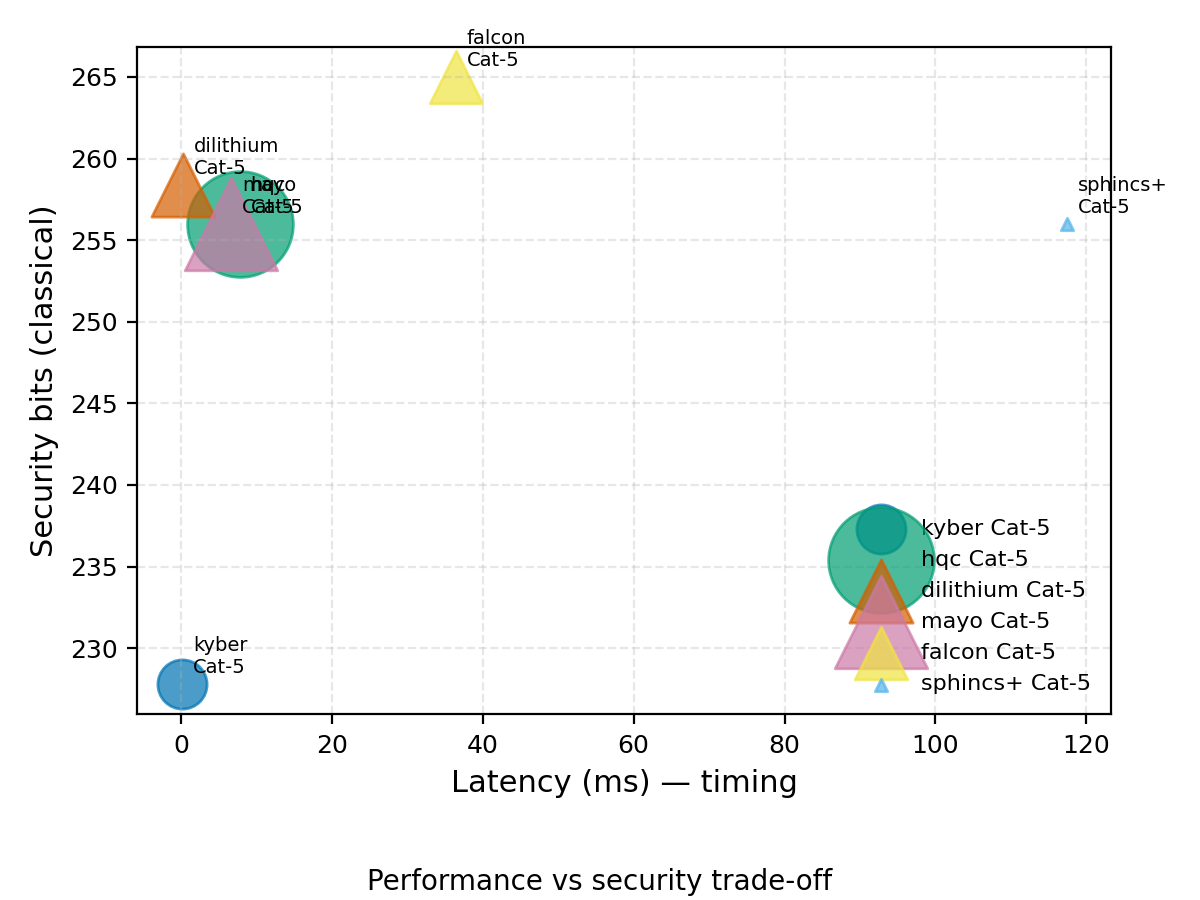
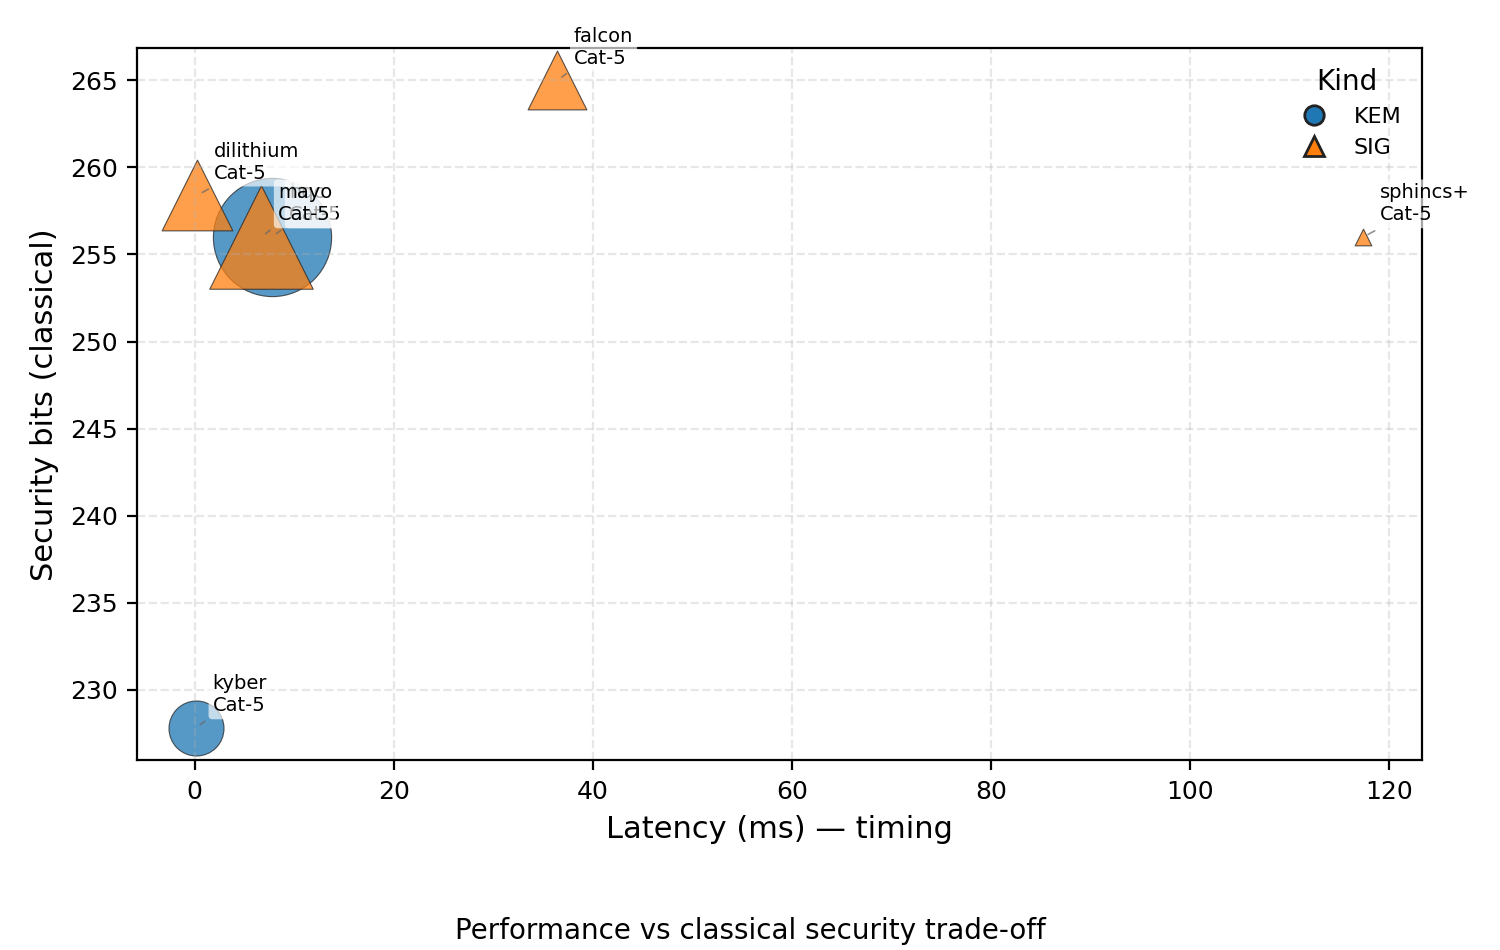
Improved readability of timing vs security trade-off graphs

Changed region(s): [[0.0, 0.0311, 0.9867, 0.9022], [0.3083, 0.9644, 0.7092, 0.9956]]

diff --git a/benchmarks/render_category_floor_graphs.py b/benchmarks/render_category_floor_graphs.py
@@ -1233,6 +1233,75 @@ def plot_shor_runtime(
         _save_with_caption(fig, outfile, caption, captions)
 
 
+def _plot_tradeoff_frontier(
+    points: Sequence[Tuple[float, float, float, str, int, str]],
+    y_label: str,
+    pass_name: str,
+    outfile: pathlib.Path,
+    caption: str,
+    captions: CaptionLog,
+) -> None:
+    if not points:
+        return
+
+    fig, ax = plt.subplots(figsize=(7.5, 4.75))
+    offsets = [(6, 6), (-52, 6), (6, -18), (-52, -18), (18, 18), (-30, 18)]
+    coord_counts: Dict[Tuple[float, float], int] = defaultdict(int)
+    marker_props = {
+        "KEM": {"marker": "o", "facecolor": "#1f77b4"},
+        "SIG": {"marker": "^", "facecolor": "#ff7f0e"},
+    }
+
+    for latency, sec_bits, size, algo, category, kind in sorted(
+        points, key=lambda x: (x[5], x[0])
+    ):
+        props = marker_props.get(kind.upper(), {"marker": "o", "facecolor": "#555555"})
+        ax.scatter(
+            latency,
+            sec_bits,
+            s=max(36, size / 4),
+            marker=props["marker"],
+            facecolors=props["facecolor"],
+            edgecolors="#222222",
+            linewidths=0.4,
+            alpha=0.75,
+        )
+        coord_key = (latency, sec_bits)
+        offset_idx = coord_counts[coord_key] % len(offsets)
+        coord_counts[coord_key] += 1
+        xytext = offsets[offset_idx]
+        ax.annotate(
+            f"{algo}\nCat-{category}",
+            (latency, sec_bits),
+            textcoords="offset points",
+            xytext=xytext,
+            fontsize=7,
+            bbox=dict(boxstyle="round,pad=0.2", fc="white", alpha=0.65, lw=0.0),
+            arrowprops=dict(arrowstyle="-", color="#666666", lw=0.6, alpha=0.7),
+        )
+
+    ax.set_xlabel(f"Latency (ms) — {pass_name}")
+    ax.set_ylabel(y_label)
+    ax.grid(True, linestyle="--", alpha=0.3)
+    legend_handles = []
+    for kind, props in marker_props.items():
+        legend_handles.append(
+            plt.Line2D(
+                [0],
+                [0],
+                marker=props["marker"],
+                color="w",
+                markerfacecolor=props["facecolor"],
+                markeredgecolor="#222222",
+                markersize=7,
+                label=kind,
+            )
+        )
+    ax.legend(handles=legend_handles, title="Kind", fontsize=8, frameon=False)
+    fig.tight_layout()
+    _save_with_caption(fig, outfile, caption, captions)
+
+
 def plot_tradeoff_frontier(
     records: Sequence[Record],
     output_dir: pathlib.Path,
@@ -1245,7 +1314,8 @@ def plot_tradeoff_frontier(
         return
 
     unique = _collect_unique_meta(records)
-    points = []
+    classical_points = []
+    quantum_points = []
     for (kind, algo, category), rec in unique.items():
         relevant = [
             r
@@ -1269,42 +1339,30 @@ def plot_tradeoff_frontier(
             or rec.meta.get("ciphertext_len")
             or 0
         )
-        points.append(
+        classical_points.append(
             (mean_latency, rec.security_classical_bits, size, algo, category, kind)
         )
+        if rec.security_quantum_bits is not None:
+            quantum_points.append(
+                (mean_latency, rec.security_quantum_bits, size, algo, category, kind)
+            )
 
-    if not points:
-        return
-
-    fig, ax = plt.subplots(figsize=(6, 4.5))
-    for latency, sec_bits, size, algo, category, kind in sorted(
-        points, key=lambda x: (x[5], x[0])
-    ):
-        marker = "o" if kind.upper() == "KEM" else "^"
-        ax.scatter(
-            latency,
-            sec_bits,
-            s=max(20, size / 5),
-            marker=marker,
-            alpha=0.7,
-            label=f"{algo} Cat-{category}",
-        )
-        ax.annotate(
-            f"{algo}\nCat-{category}",
-            (latency, sec_bits),
-            textcoords="offset points",
-            xytext=(4, 4),
-            fontsize=7,
-        )
-    ax.set_xlabel(f"Latency (ms) — {pass_name}")
-    ax.set_ylabel("Security bits (classical)")
-    ax.grid(True, linestyle="--", alpha=0.3)
-    handles, labels = ax.get_legend_handles_labels()
-    unique_pairs = dict(zip(labels, handles))
-    ax.legend(unique_pairs.values(), unique_pairs.keys(), fontsize=8)
-    outfile = output_dir / f"tradeoff_{pass_name}.png"
-    caption = "Performance vs security trade-off"
-    _save_with_caption(fig, outfile, caption, captions)
+    _plot_tradeoff_frontier(
+        classical_points,
+        "Security bits (classical)",
+        pass_name,
+        output_dir / f"tradeoff_{pass_name}.png",
+        "Performance vs classical security trade-off",
+        captions,
+    )
+    _plot_tradeoff_frontier(
+        quantum_points,
+        "Security bits (quantum)",
+        pass_name,
+        output_dir / f"tradeoff_quantum_{pass_name}.png",
+        "Performance vs quantum security trade-off",
+        captions,
+    )
 
 
 def _aggregate_scaling(

diff --git a/Tested Benchmarks/Ryzen 5700X/Benchmarks/graphs/UpdatedGraphs/captions.md b/Tested Benchmarks/Ryzen 5700X/Benchmarks/graphs/UpdatedGraphs/captions.md
@@ -252,9 +252,13 @@ Throughput across categories for SIG sign (timing)
 
 Throughput across categories for SIG verify (timing)
 
+![20251007T091128Z/category_1/tradeoff_quantum_timing.png](20251007T091128Z/category_1/tradeoff_quantum_timing.png)
+
+Performance vs quantum security trade-off
+
 ![20251007T091128Z/category_1/tradeoff_timing.png](20251007T091128Z/category_1/tradeoff_timing.png)
 
-Performance vs security trade-off
+Performance vs classical security trade-off
 
 ![20251007T091128Z/category_3/expansion_kem.png](20251007T091128Z/category_3/expansion_kem.png)
 
@@ -508,9 +512,13 @@ Throughput across categories for SIG sign (timing)
 
 Throughput across categories for SIG verify (timing)
 
+![20251007T091128Z/category_3/tradeoff_quantum_timing.png](20251007T091128Z/category_3/tradeoff_quantum_timing.png)
+
+Performance vs quantum security trade-off
+
 ![20251007T091128Z/category_3/tradeoff_timing.png](20251007T091128Z/category_3/tradeoff_timing.png)
 
-Performance vs security trade-off
+Performance vs classical security trade-off
 
 ![20251007T091128Z/category_5/expansion_kem.png](20251007T091128Z/category_5/expansion_kem.png)
 
@@ -748,9 +756,13 @@ Throughput across categories for SIG sign (timing)
 
 Throughput across categories for SIG verify (timing)
 
+![20251007T091128Z/category_5/tradeoff_quantum_timing.png](20251007T091128Z/category_5/tradeoff_quantum_timing.png)
+
+Performance vs quantum security trade-off
+
 ![20251007T091128Z/category_5/tradeoff_timing.png](20251007T091128Z/category_5/tradeoff_timing.png)
 
-Performance vs security trade-off
+Performance vs classical security trade-off
 
 ![20251007T091128Z/expansion_kem.png](20251007T091128Z/expansion_kem.png)
 
@@ -1092,6 +1104,10 @@ Throughput across categories for SIG sign (timing)
 
 Throughput across categories for SIG verify (timing)
 
+![20251007T091128Z/tradeoff_quantum_timing.png](20251007T091128Z/tradeoff_quantum_timing.png)
+
+Performance vs quantum security trade-off
+
 ![20251007T091128Z/tradeoff_timing.png](20251007T091128Z/tradeoff_timing.png)
 
-Performance vs security trade-off
+Performance vs classical security trade-off

diff --git a/Tested Benchmarks/i9 9880h/Benchmarks/graphs/UpdatedGraphs/captions.md b/Tested Benchmarks/i9 9880h/Benchmarks/graphs/UpdatedGraphs/captions.md
@@ -252,9 +252,13 @@ Throughput across categories for SIG sign (timing)
 
 Throughput across categories for SIG verify (timing)
 
+![20251008T114603Z/category_1/tradeoff_quantum_timing.png](20251008T114603Z/category_1/tradeoff_quantum_timing.png)
+
+Performance vs quantum security trade-off
+
 ![20251008T114603Z/category_1/tradeoff_timing.png](20251008T114603Z/category_1/tradeoff_timing.png)
 
-Performance vs security trade-off
+Performance vs classical security trade-off
 
 ![20251008T114603Z/category_3/expansion_kem.png](20251008T114603Z/category_3/expansion_kem.png)
 
@@ -508,9 +512,13 @@ Throughput across categories for SIG sign (timing)
 
 Throughput across categories for SIG verify (timing)
 
+![20251008T114603Z/category_3/tradeoff_quantum_timing.png](20251008T114603Z/category_3/tradeoff_quantum_timing.png)
+
+Performance vs quantum security trade-off
+
 ![20251008T114603Z/category_3/tradeoff_timing.png](20251008T114603Z/category_3/tradeoff_timing.png)
 
-Performance vs security trade-off
+Performance vs classical security trade-off
 
 ![20251008T114603Z/category_5/expansion_kem.png](20251008T114603Z/category_5/expansion_kem.png)
 
@@ -748,9 +756,13 @@ Throughput across categories for SIG sign (timing)
 
 Throughput across categories for SIG verify (timing)
 
+![20251008T114603Z/category_5/tradeoff_quantum_timing.png](20251008T114603Z/category_5/tradeoff_quantum_timing.png)
+
+Performance vs quantum security trade-off
+
 ![20251008T114603Z/category_5/tradeoff_timing.png](20251008T114603Z/category_5/tradeoff_timing.png)
 
-Performance vs security trade-off
+Performance vs classical security trade-off
 
 ![20251008T114603Z/expansion_kem.png](20251008T114603Z/expansion_kem.png)
 
@@ -1092,6 +1104,10 @@ Throughput across categories for SIG sign (timing)
 
 Throughput across categories for SIG verify (timing)
 
+![20251008T114603Z/tradeoff_quantum_timing.png](20251008T114603Z/tradeoff_quantum_timing.png)
+
+Performance vs quantum security trade-off
+
 ![20251008T114603Z/tradeoff_timing.png](20251008T114603Z/tradeoff_timing.png)
 
-Performance vs security trade-off
+Performance vs classical security trade-off
